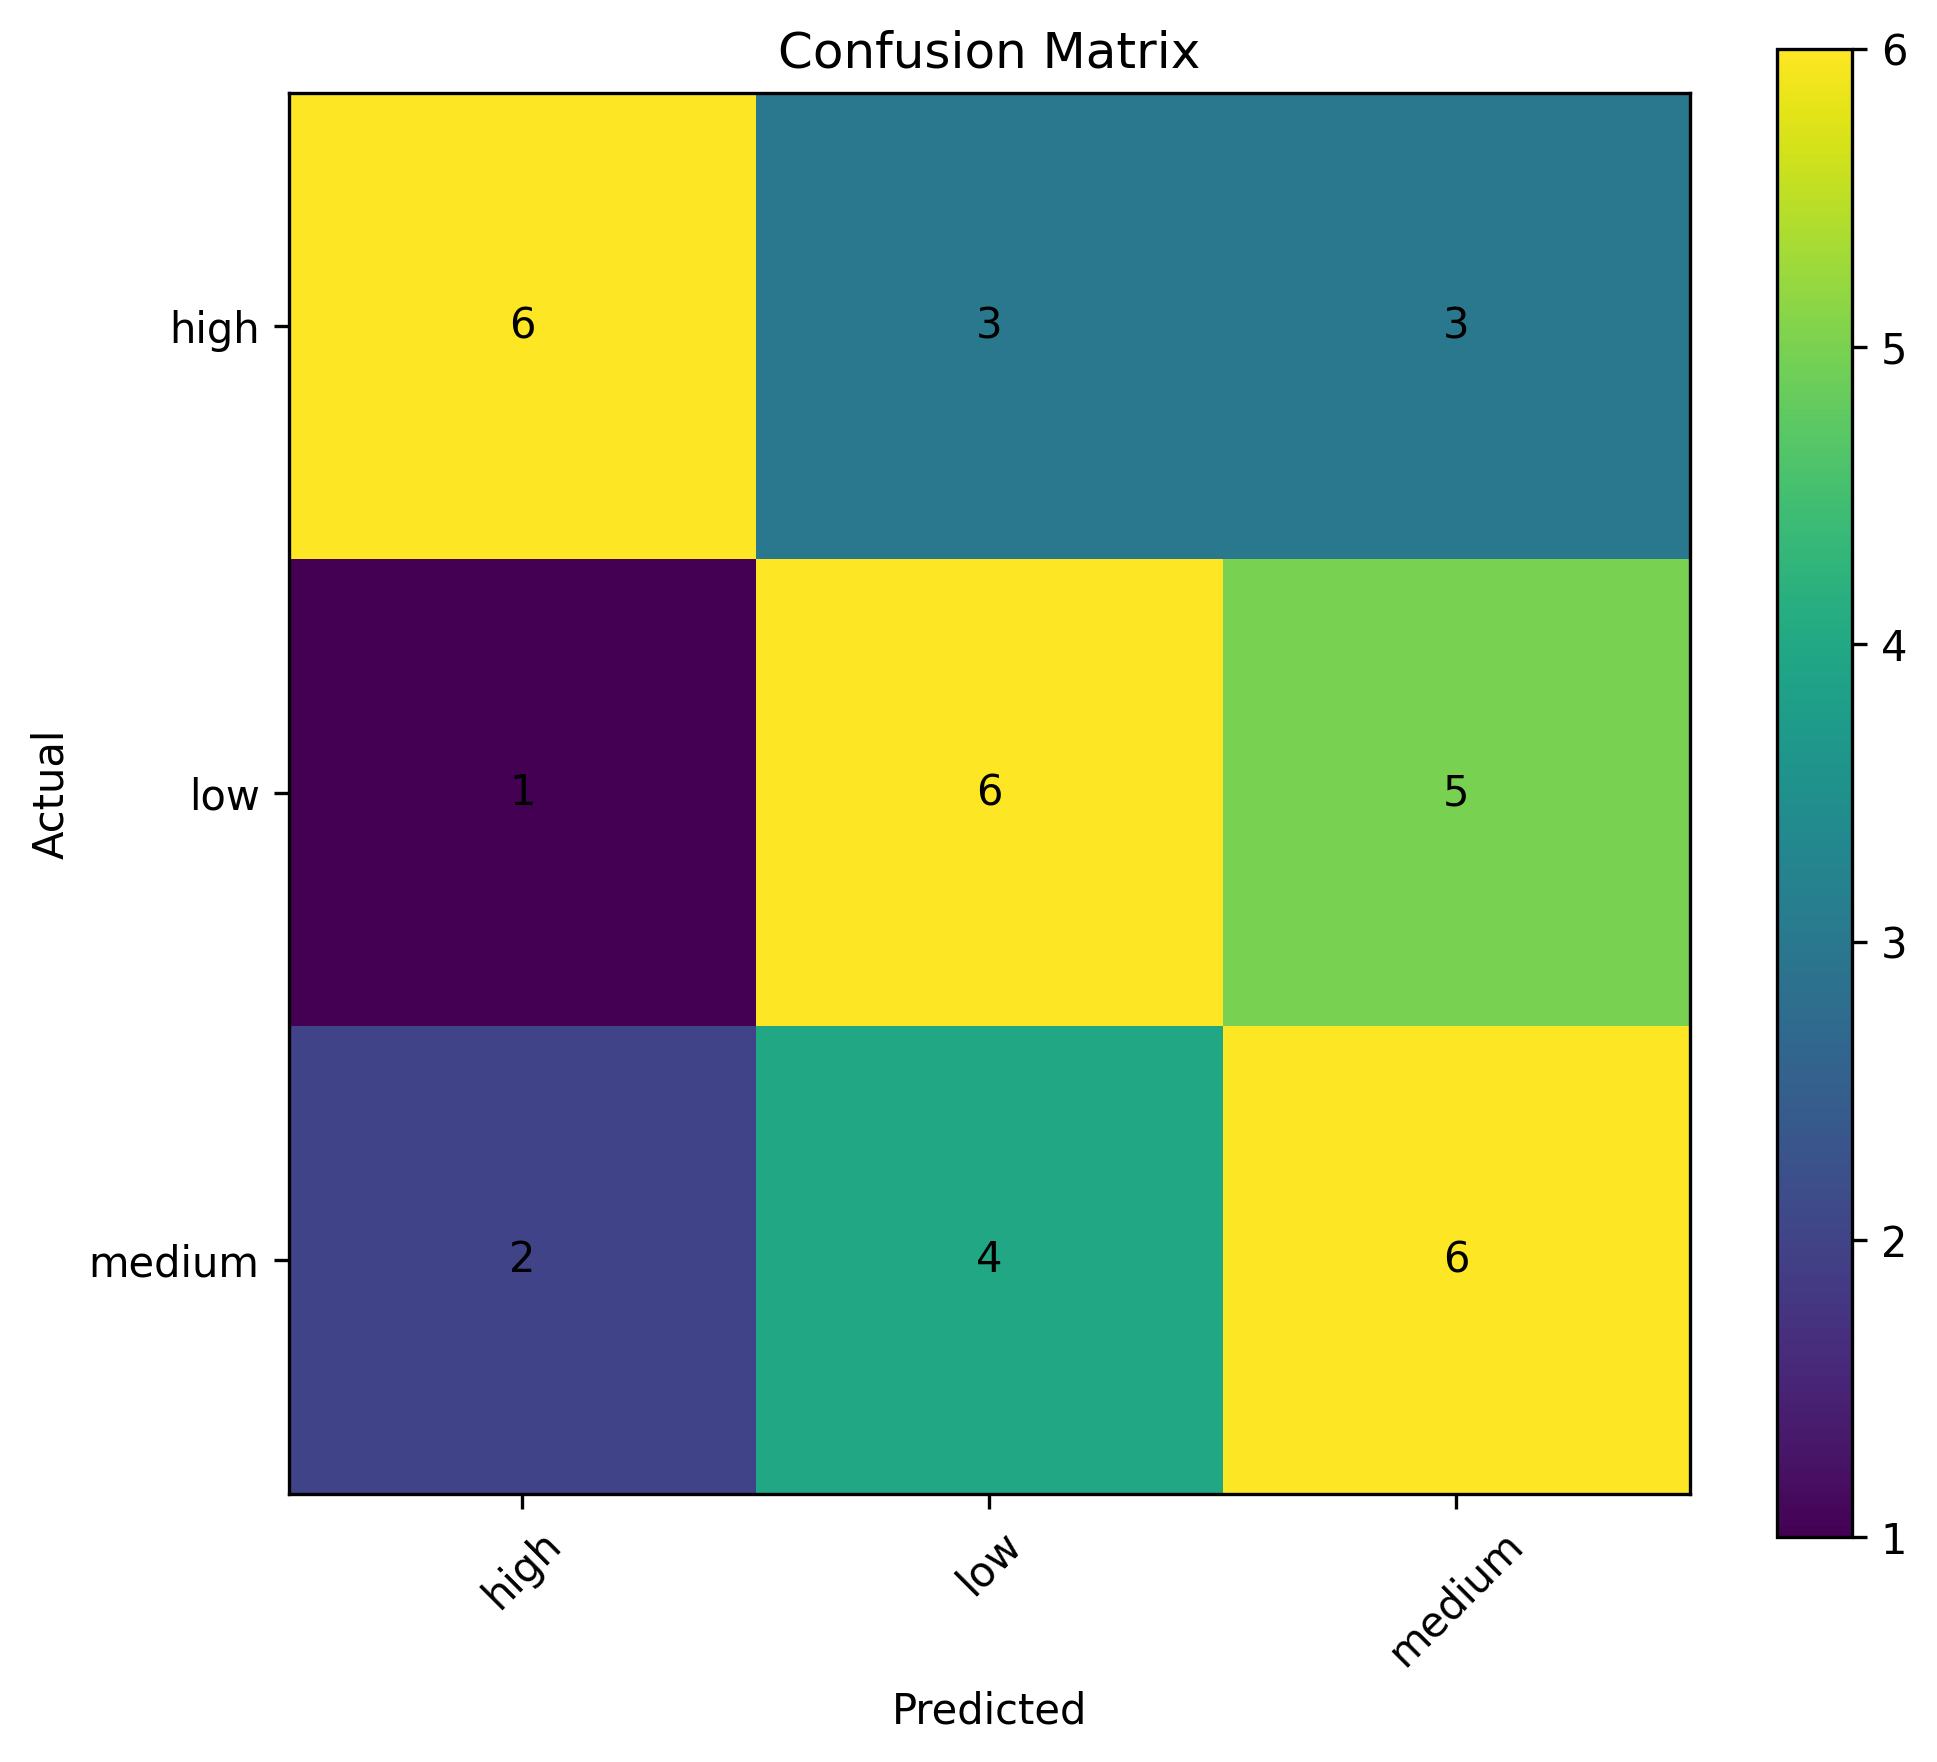
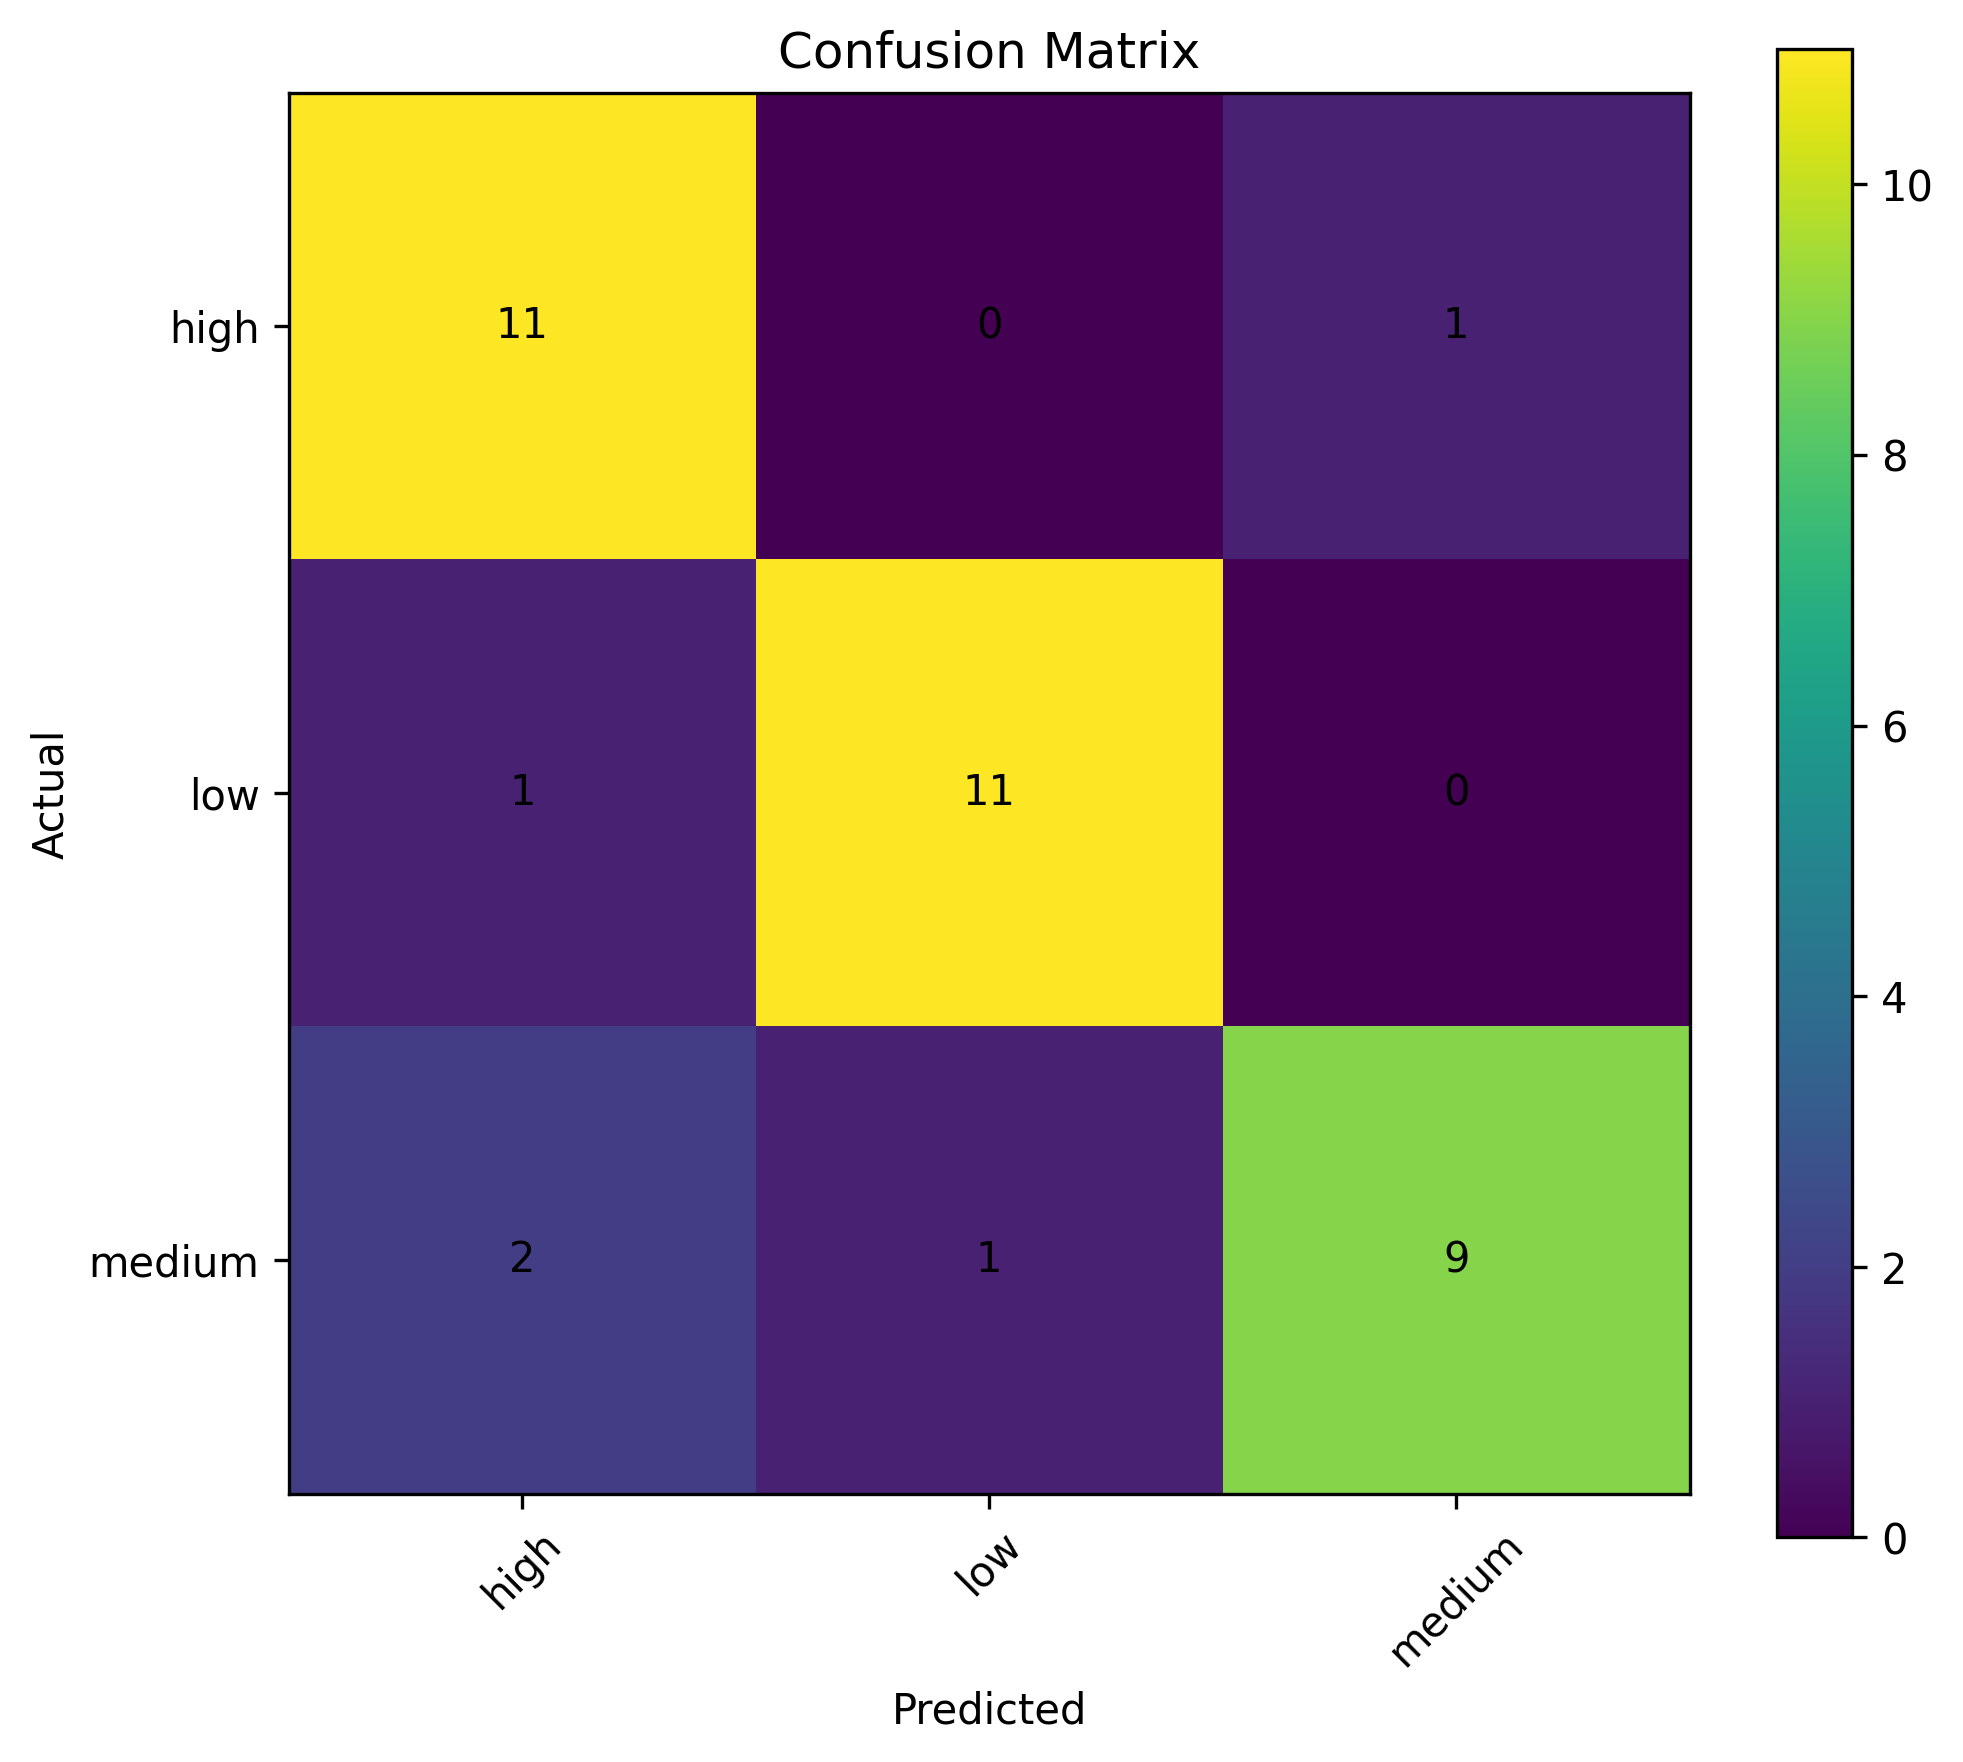
revisi dataset

diff --git a/src/evaluate.py b/src/evaluate.py
@@ -135,7 +135,7 @@ if __name__ == "__main__":
     label_encoder = joblib.load(models_dir / "label_encoder.pkl")
 
     # 👉 PILIH MODEL TERBAIK (ubah sesuai hasil metrics.csv)
-    model_path = models_dir / "svm_exp_2.pkl"
+    model_path = models_dir / "knn_exp_2.pkl"
 
     evaluate_model(
         model_path=model_path,